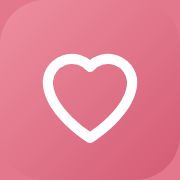
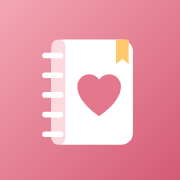
Nouvelle icône d'appli : le carnet au cœur
Claude-Session: https://claude.ai/code/session_017Gwxvn5cRmbE6vvRxTjfbZ

Changed region(s): [[0.2222, 0.1944, 0.7778, 0.8056], [0.0, 0.0, 0.2222, 0.2222], [0.9167, 0.8889, 1.0, 1.0]]

diff --git a/sw.js b/sw.js
@@ -1,5 +1,5 @@
 // Carnet de nounou : garde l'appli en cache pour qu'elle s'ouvre vite, même avec peu de réseau
-const CACHE = 'carnet-nounou-v1';
+const CACHE = 'carnet-nounou-v2';
 const FILES = ['./', './index.html', './manifest.webmanifest', './icon-192.png', './icon-512.png', './favicon.svg', './apple-touch-icon.png'];
 self.addEventListener('install', e => { e.waitUntil(caches.open(CACHE).then(c => c.addAll(FILES))); self.skipWaiting(); });
 self.addEventListener('activate', e => { e.waitUntil(caches.keys().then(k => Promise.all(k.filter(n => n !== CACHE).map(n => caches.delete(n))))); self.clients.claim(); });
